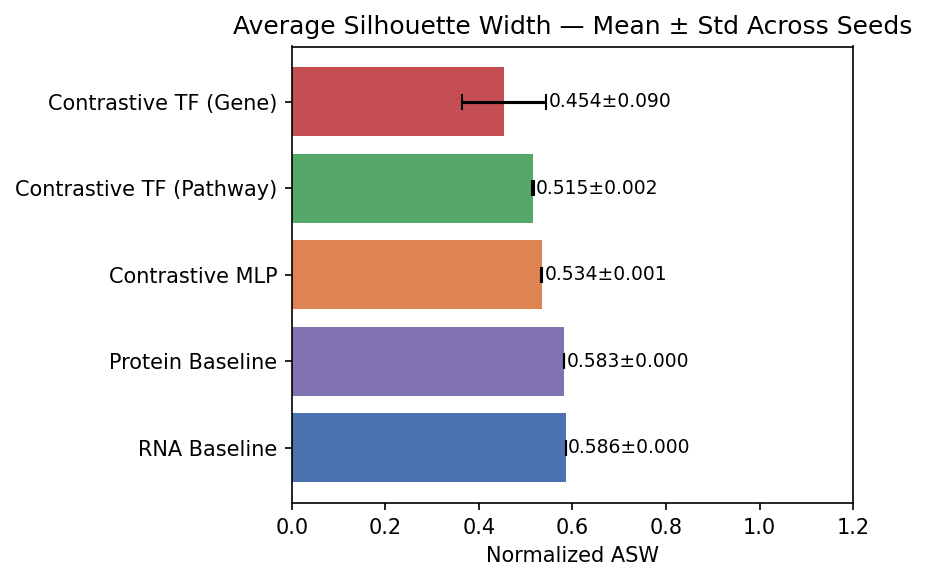
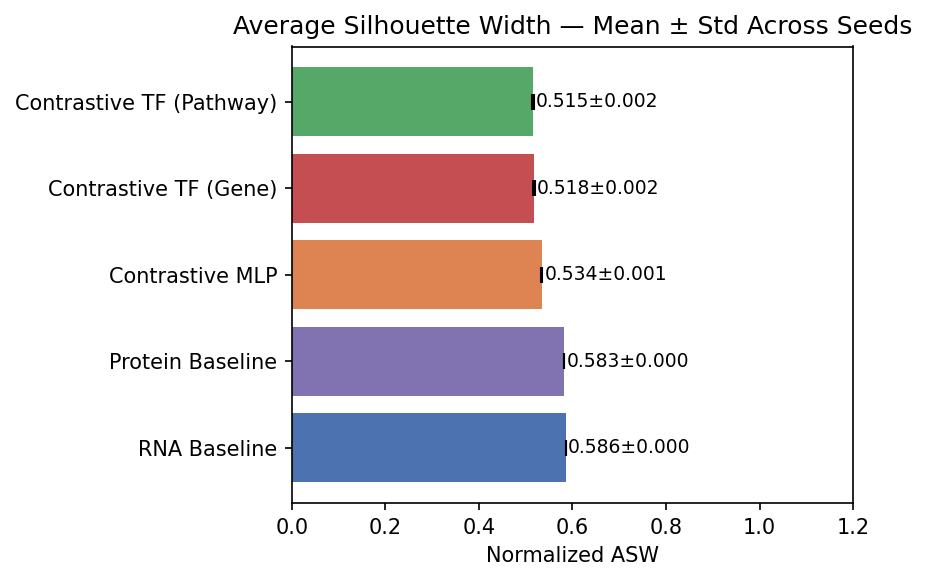
Exclude tf_gene seed77 (failed run) from averaged figures; add --exclude flag
seed77 gene-TF stopped contrastive pretraining after 21 epochs vs 130+
for other seeds, yielding near-random accuracy (0.24). Add --exclude
MODEL:SEED CLI arg so any failed run can be dropped without code changes.
Regenerated averaged figures with tf_gene using seeds 13+42 only.

Changed region(s): [[0.0, 0.0929, 0.7249, 0.4028]]

diff --git a/src/evaluate_averaged.py b/src/evaluate_averaged.py
@@ -64,27 +64,6 @@ def _plot_band(ax, epochs, mean, std, color, label, linestyle="-", alpha=0.2):
     )
 
 
-# ── Per-model data loader ──────────────────────────────────────────────────────
-
-
-def _load_all_seeds(
-    checkpoint_dir: Path,
-    prefixes: dict[str, str],
-    seeds: list[int],
-) -> dict[str, list[dict]]:
-    """For each model key, load run data from every seed; skip missing."""
-    all_runs: dict[str, list[dict]] = {k: [] for k in ALL_MODEL_KEYS}
-    for mkey, prefix in prefixes.items():
-        for seed in seeds:
-            d = _find_seed_run(checkpoint_dir, prefix, seed)
-            if d is None:
-                print(f"[warn] No run found for {mkey} seed{seed} — skipping")
-                continue
-            print(f"  {MODEL_DISPLAY_NAMES[mkey]} seed{seed}: {d.name}")
-            all_runs[mkey].append(_load_run(d))
-    return all_runs
-
-
 # ── Figure: averaged model comparison ─────────────────────────────────────────
 
 
@@ -351,7 +330,20 @@ def main(argv: list[str] | None = None) -> None:
         "--seeds", type=int, nargs="+", default=[13, 42, 77],
         help="Seed values to aggregate (default: 13 42 77)",
     )
+    parser.add_argument(
+        "--exclude", type=str, nargs="*", default=[],
+        metavar="MODEL:SEED",
+        help="Exclude specific model+seed combinations, e.g. --exclude tf_gene:77",
+    )
     args = parser.parse_args(argv)
+
+    # Parse exclusions into a set of (model_key, seed) tuples
+    exclusions: set[tuple[str, int]] = set()
+    for item in args.exclude:
+        mkey, seed_str = item.split(":")
+        exclusions.add((mkey, int(seed_str)))
+    if exclusions:
+        print(f"[info] Excluding: {', '.join(f'{m}:seed{s}' for m, s in sorted(exclusions))}")
 
     ckpt_root = Path(args.checkpoint_dir)
     output_dir = Path(args.output_dir)
@@ -365,15 +357,29 @@ def main(argv: list[str] | None = None) -> None:
         "tf_gene": "contrastive_tf_gene_seed",
     }
 
-    print(f"\n=== Loading runs for seeds {args.seeds} ===")
-    all_runs = _load_all_seeds(ckpt_root, prefixes, args.seeds)
+    # Build per-model seed lists, applying exclusions
+    model_seeds = {
+        mkey: [s for s in args.seeds if (mkey, s) not in exclusions]
+        for mkey in prefixes
+    }
 
-    present = {k: v for k, v in all_runs.items() if v}
-    if not present:
+    print(f"\n=== Loading runs ===")
+    all_runs: dict[str, list[dict]] = {k: [] for k in ALL_MODEL_KEYS}
+    for mkey, prefix in prefixes.items():
+        seeds_for_model = model_seeds[mkey]
+        for seed in seeds_for_model:
+            d = _find_seed_run(ckpt_root, prefix, seed)
+            if d is None:
+                print(f"[warn] No run found for {mkey} seed{seed} — skipping")
+                continue
+            print(f"  {MODEL_DISPLAY_NAMES[mkey]} seed{seed}: {d.name}")
+            all_runs[mkey].append(_load_run(d))
+
+    if not any(all_runs.values()):
         print(f"No runs found under {ckpt_root}")
         return
 
-    print(f"\n=== Generating averaged figures ({len(args.seeds)} seeds) ===")
+    print(f"\n=== Generating averaged figures ===")
     _fig_model_comparison_avg(all_runs, output_dir)
     _fig_training_curves_avg(all_runs, output_dir)
     _fig_accuracy_curves_avg(all_runs, output_dir)
